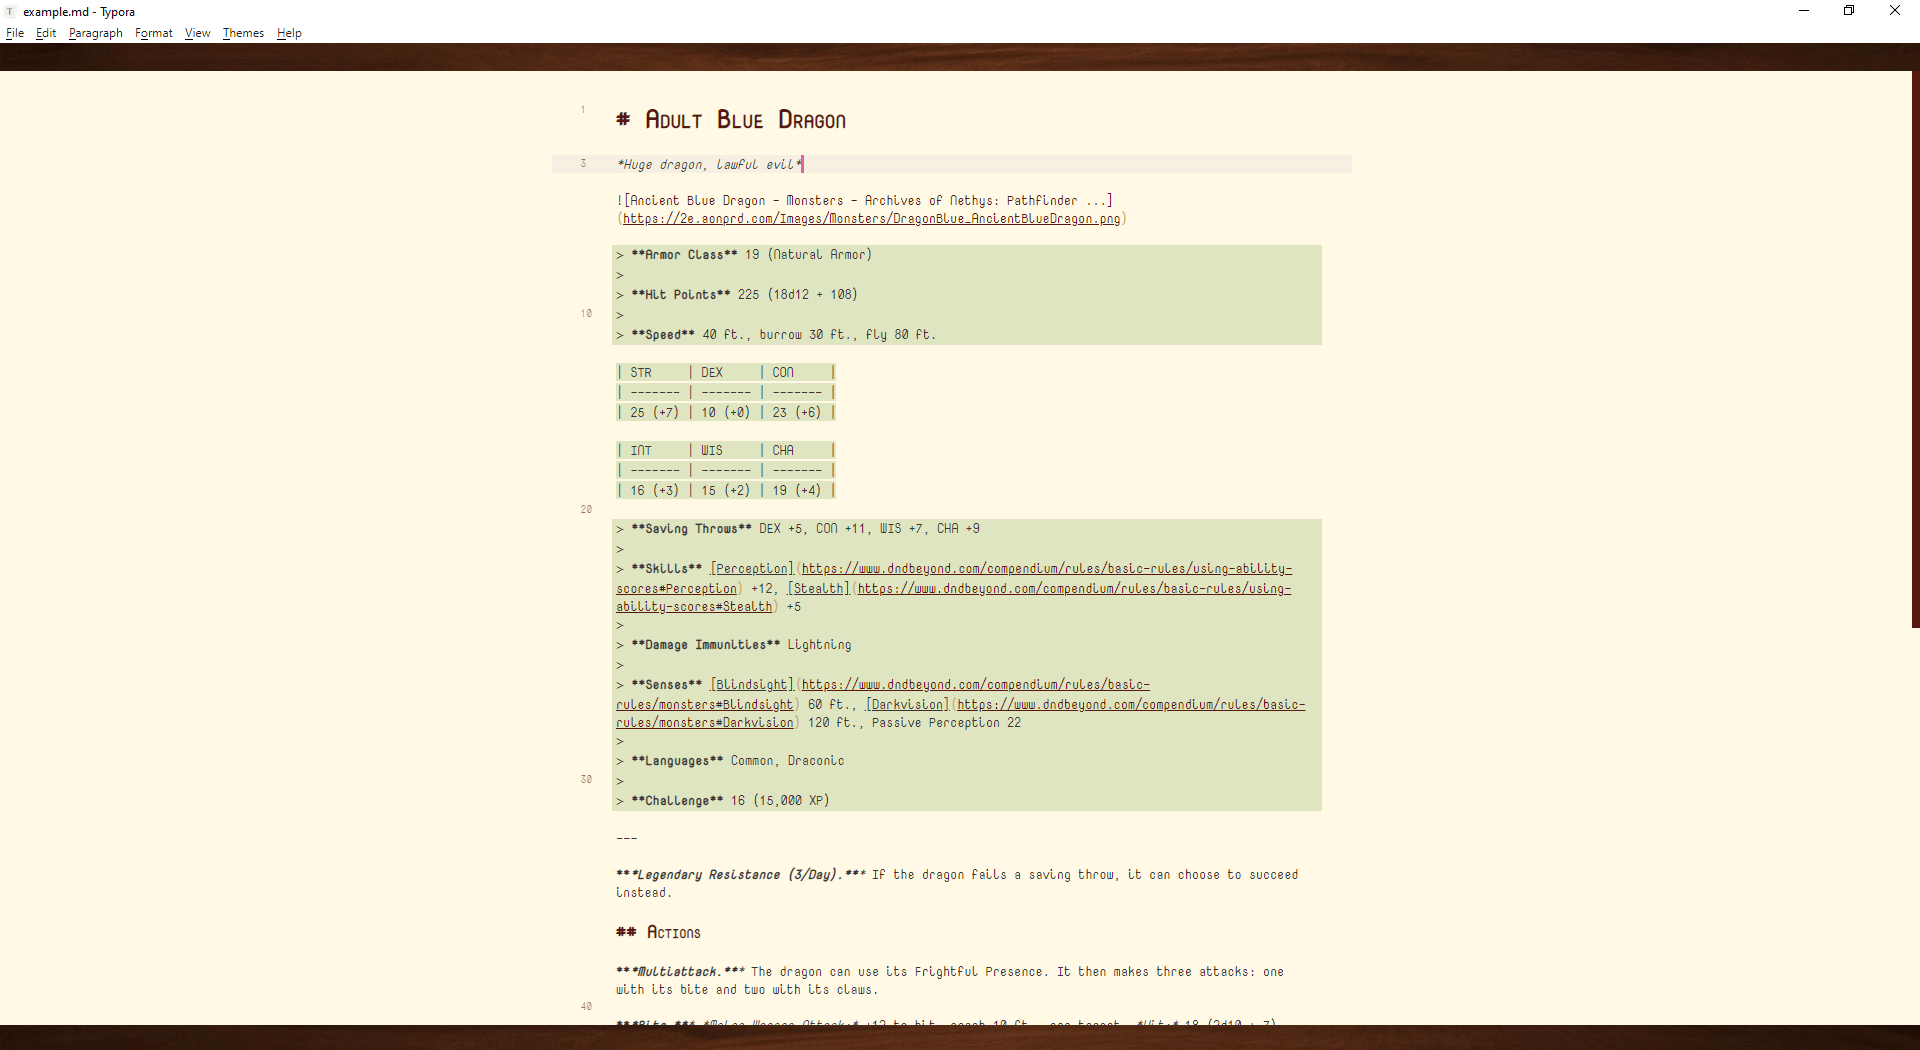
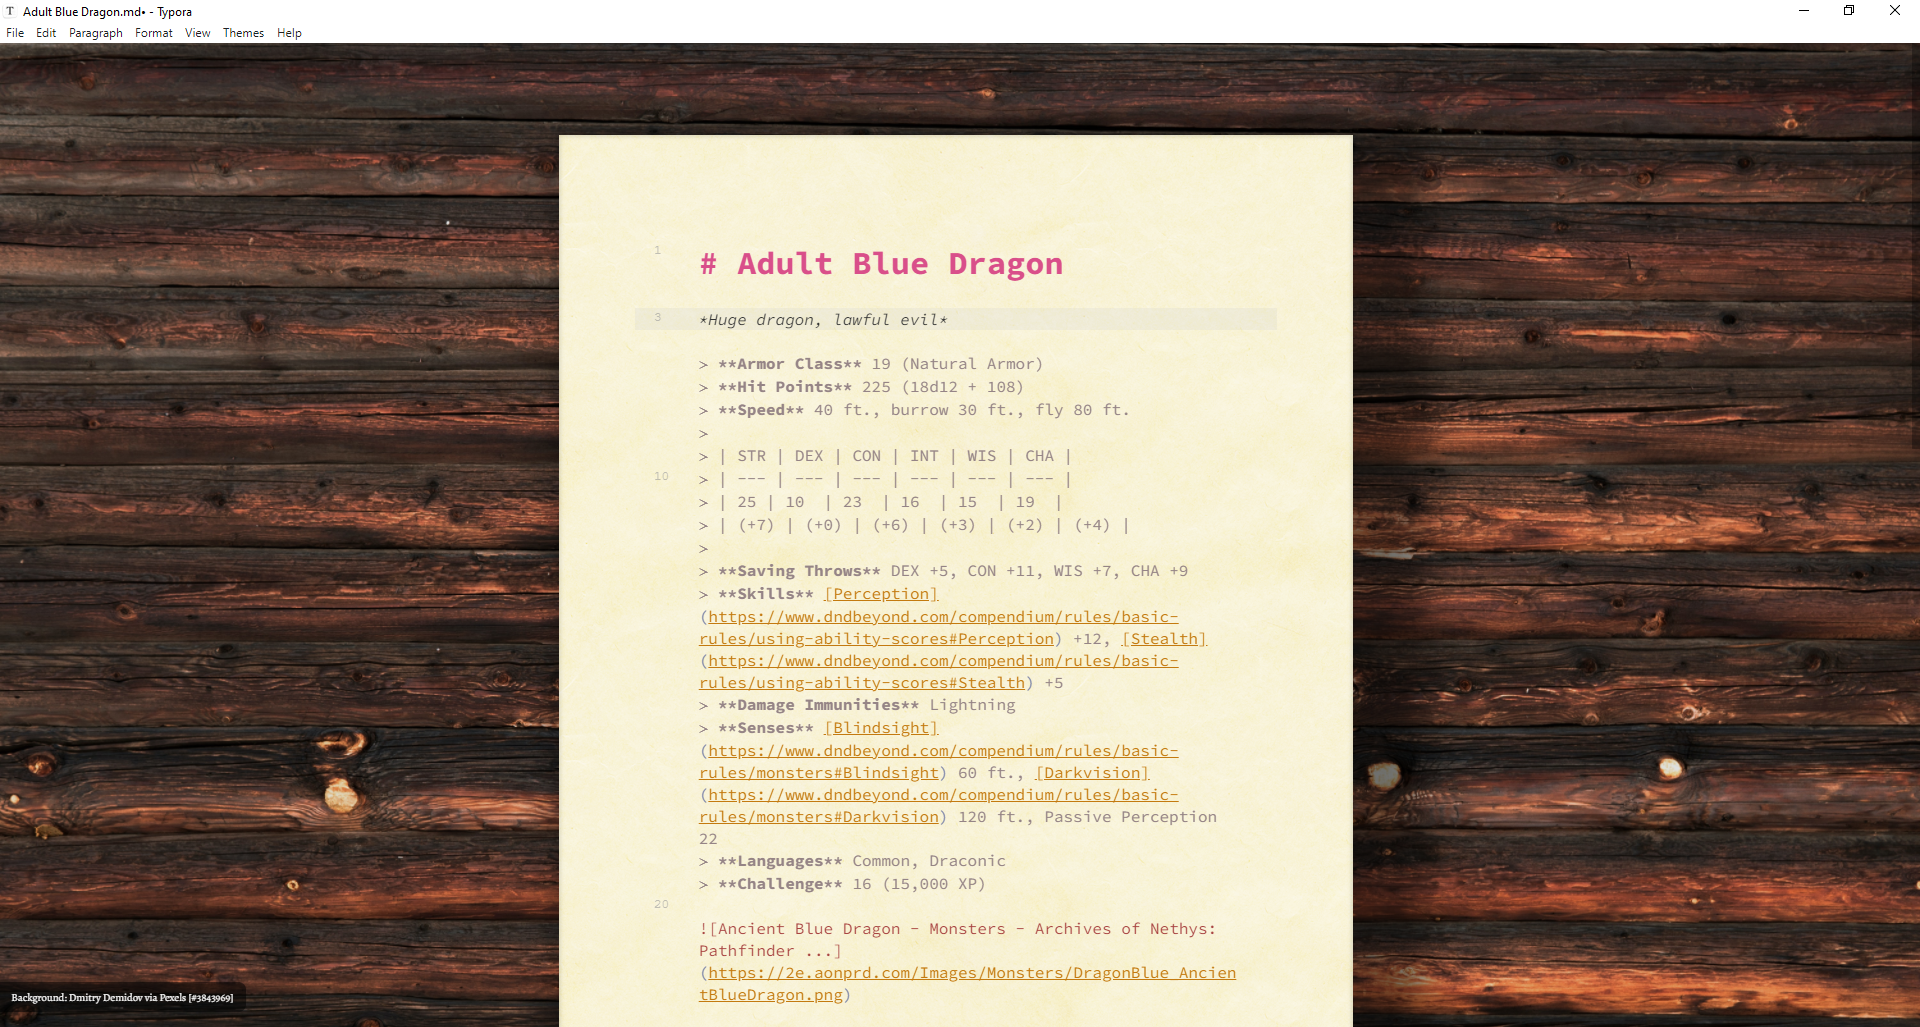
Torillic: Major version release (v2.0)

diff --git a/_posts/theme/2022-04-03-Torillic.md b/_posts/theme/2022-04-03-Torillic.md
@@ -1,54 +1,76 @@
+---
+layout: theme
+title: Torillic
+category: theme
+homepage: https://teparsons.github.io/torillic/typora.html
+download: https://github.com/TEParsons/torillic/releases/tag/v2.0
+author: Todd Parsons
+thumbnail: torillic.png
+typora-root-url: ../../
+typora-copy-images-to: ../../media/theme/torillic
 
+---
 
-# Magic is distilled laziness…
+# Torillic
+
+> Magic is distilled laziness
 
 This theme, named after the fantasy setting of [Dungeons & Dragons](https://www.dndbeyond.com/), is designed with tabletop RPG players in mind. The theme allows beautiful HTML exports designed to look like a professionally made tabletop resource, whilst remaining easy to edit in code view and in small windows, thanks to CSS media queries.
 
-See below for an example of a D&D style stat block made using this theme! A few pointers:
+Torillic v2 is the second incarnation of the Torillic theme, you can download older versions [here](https://github.com/TEParsons/torillic/releases).
 
-- Using `> blockquotes` will create a green box similar to the ones used in 5e stat blocks
-- The heading with a yellow line underneath is `# h4`
-- Tables will not have margins between one another, so it makes sense to split the basic 6 stats into two tables, one after the other, as below.
-- `# h1` and `—` (hr) are the only aspects which span both columns, so use these wherever you would like columns to reset
-- Check out the markdown used to create this document [here](https://teparsons.github.io/torillic/typora.md)
+# Usage Guide
 
+Like all Typora themes, Torillic uses [markdown syntax](https://www.markdownguide.org/basic-syntax/), but here's a few tips and tricks for getting the most out of this theme:
+
+- Using `> blockquotes` will create a green box like the ones used in 5e stat blocks
+- In full page view, content is arranged into two columns - however, `# heading 1` and `---` (horizontal line) elements span both columns so can be used as separators
+- The heading with a yellow line underneath (you know the one) is `#### heading 4`
+- Actions in 5e stat blocks are generally formatted like so:
+```markdown
+***Name.*** *Attack Type:* +[modifier] to hit, reach [reach] ft., [n targets] target(s). *Hit:* [approx damage] ([n dice]d[die size] + [additional]) [damage type] damage.
+```
+- For an example of a full stat sheet in Torillic, check out the markdown below the screenshots.
+- Ultimately, it's yours to play with, so feel free to completely ignore this advice and lay things out however works for your capaign!
+
+# Screenshots
+
+![full-width](/media/theme/torillic/full.png)
+
+![thin](/media/theme/torillic/thin.png)
+
+![code](/media/theme/torillic/code.png)
+
+The above screenshots were all created using the following markdown:
+
+```markdown
 # Adult Blue Dragon
 
 *Huge dragon, lawful evil*
 
-![Ancient Blue Dragon - Monsters - Archives of Nethys: Pathfinder ...](https://2e.aonprd.com/Images/Monsters/DragonBlue_AncientBlueDragon.png)
-
 > **Armor Class** 19 (Natural Armor)
->
 > **Hit Points** 225 (18d12 + 108)
->
 > **Speed** 40 ft., burrow 30 ft., fly 80 ft.
-
-| STR     | DEX     | CON     |
-| ------- | ------- | ------- |
-| 25 (+7) | 10 (+0) | 23 (+6) |
-
-| INT     | WIS     | CHA     |
-| ------- | ------- | ------- |
-| 16 (+3) | 15 (+2) | 19 (+4) |
-
+>
+> | STR  | DEX  | CON  | INT  | WIS  | CHA  |
+> |------|------|------|------|------|------|
+> | 25   | 10   | 23   | 16   | 15   | 19   |
+> | (+7) | (+0) | (+6) | (+3) | (+2) | (+4) |
+> 
 > **Saving Throws** DEX +5, CON +11, WIS +7, CHA +9
->
 > **Skills** [Perception](https://www.dndbeyond.com/compendium/rules/basic-rules/using-ability-scores#Perception) +12, [Stealth](https://www.dndbeyond.com/compendium/rules/basic-rules/using-ability-scores#Stealth) +5
->
 > **Damage Immunities** Lightning
->
 > **Senses** [Blindsight](https://www.dndbeyond.com/compendium/rules/basic-rules/monsters#Blindsight) 60 ft., [Darkvision](https://www.dndbeyond.com/compendium/rules/basic-rules/monsters#Darkvision) 120 ft., Passive Perception 22
->
 > **Languages** Common, Draconic
->
 > **Challenge** 16 (15,000 XP)
+
+![Ancient Blue Dragon - Monsters - Archives of Nethys: Pathfinder ...](https://2e.aonprd.com/Images/Monsters/DragonBlue_AncientBlueDragon.png)
 
 ---
 
 ***Legendary Resistance (3/Day).*** If the dragon fails a saving throw, it can choose to succeed instead.
 
-## Actions
+#### Actions
 
 ***Multiattack.*** The dragon can use its Frightful Presence. It then makes three attacks: one with its bite and two with its claws.
 
@@ -71,3 +93,4 @@ The dragon can take 3 legendary actions, choosing from the options below. Only o
 ***Tail Attack.*** The dragon makes a tail attack.
 
 ***Wing Attack (Costs 2 Actions).*** The dragon beats its wings. Each creature within 10 feet of the dragon must succeed on a DC 20 Dexterity saving throw or take 14 (2d6 + 7) bludgeoning damage and be knocked [prone](https://www.dndbeyond.com/compendium/rules/basic-rules/appendix-a-conditions#Prone). The dragon can then fly up to half its flying speed.
+```

diff --git a/media/theme/torillic/Adult Blue Dragon.md b/media/theme/torillic/Adult Blue Dragon.md
@@ -1,0 +1,49 @@
+# Adult Blue Dragon
+
+*Huge dragon, lawful evil*
+
+> **Armor Class** 19 (Natural Armor)
+> **Hit Points** 225 (18d12 + 108)
+> **Speed** 40 ft., burrow 30 ft., fly 80 ft.
+> 
+> | STR  | DEX  | CON  | INT  | WIS  | CHA  |
+> |------|------|------|------|------|------|
+> | 25   | 10   | 23   | 16   | 15   | 19   |
+> | (+7) | (+0) | (+6) | (+3) | (+2) | (+4) |
+> 
+> **Saving Throws** DEX +5, CON +11, WIS +7, CHA +9
+> **Skills** [Perception](https://www.dndbeyond.com/compendium/rules/basic-rules/using-ability-scores#Perception) +12, [Stealth](https://www.dndbeyond.com/compendium/rules/basic-rules/using-ability-scores#Stealth) +5
+> **Damage Immunities** Lightning
+> **Senses** [Blindsight](https://www.dndbeyond.com/compendium/rules/basic-rules/monsters#Blindsight) 60 ft., [Darkvision](https://www.dndbeyond.com/compendium/rules/basic-rules/monsters#Darkvision) 120 ft., Passive Perception 22
+> **Languages** Common, Draconic
+> **Challenge** 16 (15,000 XP)
+
+![Ancient Blue Dragon - Monsters - Archives of Nethys: Pathfinder ...](https://2e.aonprd.com/Images/Monsters/DragonBlue_AncientBlueDragon.png)
+
+---
+
+***Legendary Resistance (3/Day).*** If the dragon fails a saving throw, it can choose to succeed instead.
+
+#### Actions
+
+***Multiattack.*** The dragon can use its Frightful Presence. It then makes three attacks: one with its bite and two with its claws.
+
+***Bite.*** *Melee Weapon Attack:* +12 to hit, reach 10 ft., one target. *Hit:* 18 (2d10 + 7) piercing damage plus 5 (1d10) lightning damage.
+
+***Claw.*** *Melee Weapon Attack:* +12 to hit, reach 5 ft., one target. *Hit:* 14 (2d6 + 7) slashing damage.
+
+***Tail.*** *Melee Weapon Attack:* +12 to hit, reach 15 ft., one target. *Hit:* 16 (2d8 + 7) bludgeoning damage.
+
+***Frightful Presence.*** Each creature of the dragon's choice that is within 120 feet of the dragon and aware of it must succeed on a DC 17 Wisdom saving throw or become [frightened](https://www.dndbeyond.com/compendium/rules/basic-rules/appendix-a-conditions#Frightened) for 1 minute. A creature can repeat the saving throw at the end of each of its turns, ending the effect on itself on a success. If a creature's saving throw is successful or the effect ends for it, the creature is immune to the dragon's Frightful Presence for the next 24 hours.
+
+***Lightning Breath (Recharge 5–6).*** The dragon exhales lightning in a 90-foot line that is 5 feet wide. Each creature in that line must make a DC 19 Dexterity saving throw, taking 66 (12d10) lightning damage on a failed save, or half as much damage on a successful one.
+
+#### Legendary Actions
+
+The dragon can take 3 legendary actions, choosing from the options below. Only one legendary action option can be used at a time and only at the end of another creature's turn. The dragon regains spent legendary actions at the start of its turn.
+
+***Detect.*** The dragon makes a Wisdom ([Perception](https://www.dndbeyond.com/compendium/rules/basic-rules/using-ability-scores#Perception)) check.
+
+***Tail Attack.*** The dragon makes a tail attack.
+
+***Wing Attack (Costs 2 Actions).*** The dragon beats its wings. Each creature within 10 feet of the dragon must succeed on a DC 20 Dexterity saving throw or take 14 (2d6 + 7) bludgeoning damage and be knocked [prone](https://www.dndbeyond.com/compendium/rules/basic-rules/appendix-a-conditions#Prone). The dragon can then fly up to half its flying speed.
